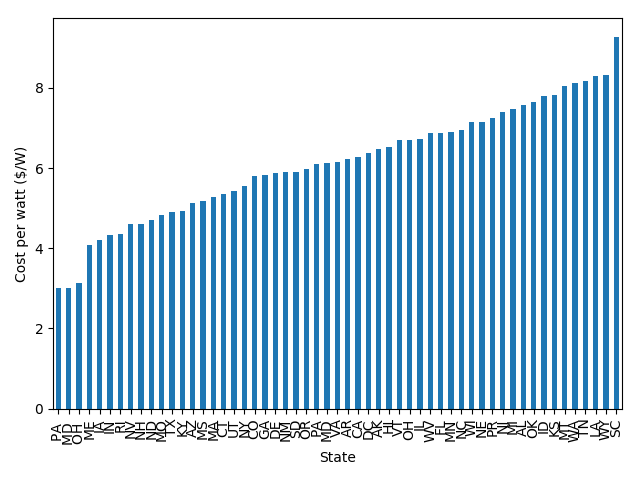
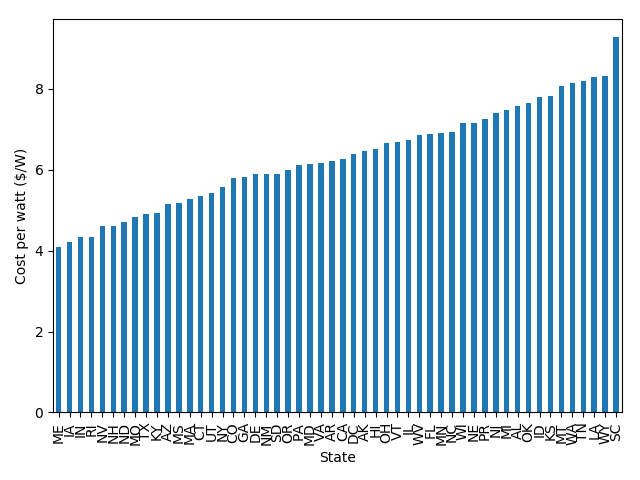
Added plot of growth by state

Changed region(s): [[0.0, 0.1562, 0.9688, 0.9375], [0.0938, 0.0312, 0.9688, 0.0625]]

diff --git a/analyze_data.py b/analyze_data.py
@@ -1,0 +1,37 @@
+import pandas
+import matplotlib.pyplot as plt
+
+# Load data
+df = pandas.read_csv('openpv_all_clean_trimmed.csv')
+df['state'] = df['state'].str.strip()
+
+#%% Plot cost per watt by state
+df.groupby('state').mean()['cost_per_watt'].sort_values().plot(kind='bar')
+plt.ylabel('Cost per watt ($/W)')
+plt.xlabel('State')
+plt.tight_layout()
+plt.savefig('cost_by_state.png')
+
+#%% Plot change in number of installations from 2016 to 2017
+
+# Convert date strings to datetime objects
+df['date_installed'] = pandas.to_datetime(df['date_installed'],format='%m/%d/%Y')
+
+# Find rows in given date ranges
+mask_2016 = (df['date_installed'] > '12/31/15') & (df['date_installed'] < '1/1/17')
+mask_2017 = (df['date_installed'] > '12/31/16') & (df['date_installed'] < '1/1/18')
+df2 = df.loc[:,['state','size_kw']]
+
+# Find total number of installations by state for 2016 and 2017
+tot_2016 = df2[mask_2016].groupby('state')['size_kw'].size()
+tot_2017 = df2[mask_2017].groupby('state')['size_kw'].size()
+
+# Calculate difference between 2016 and 2017
+diff = (tot_2017-tot_2016).dropna()
+
+# Plot results
+diff.sort_values().plot(kind='bar')
+plt.xlabel('State')
+plt.ylabel('Change in number of PV installations from 2016 to 2017')
+plt.tight_layout()
+plt.savefig('growth_by_state.png')
